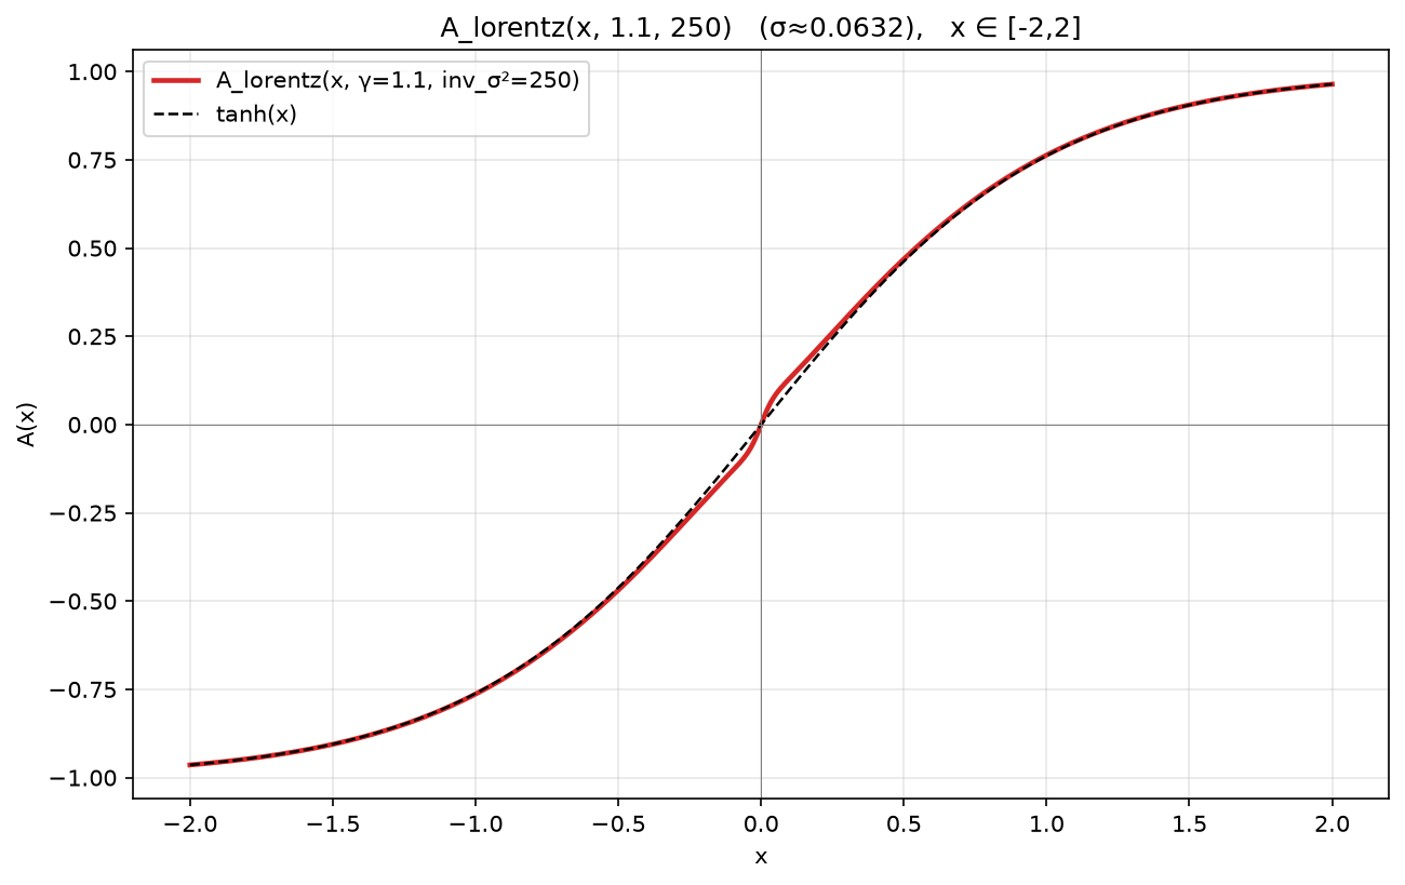
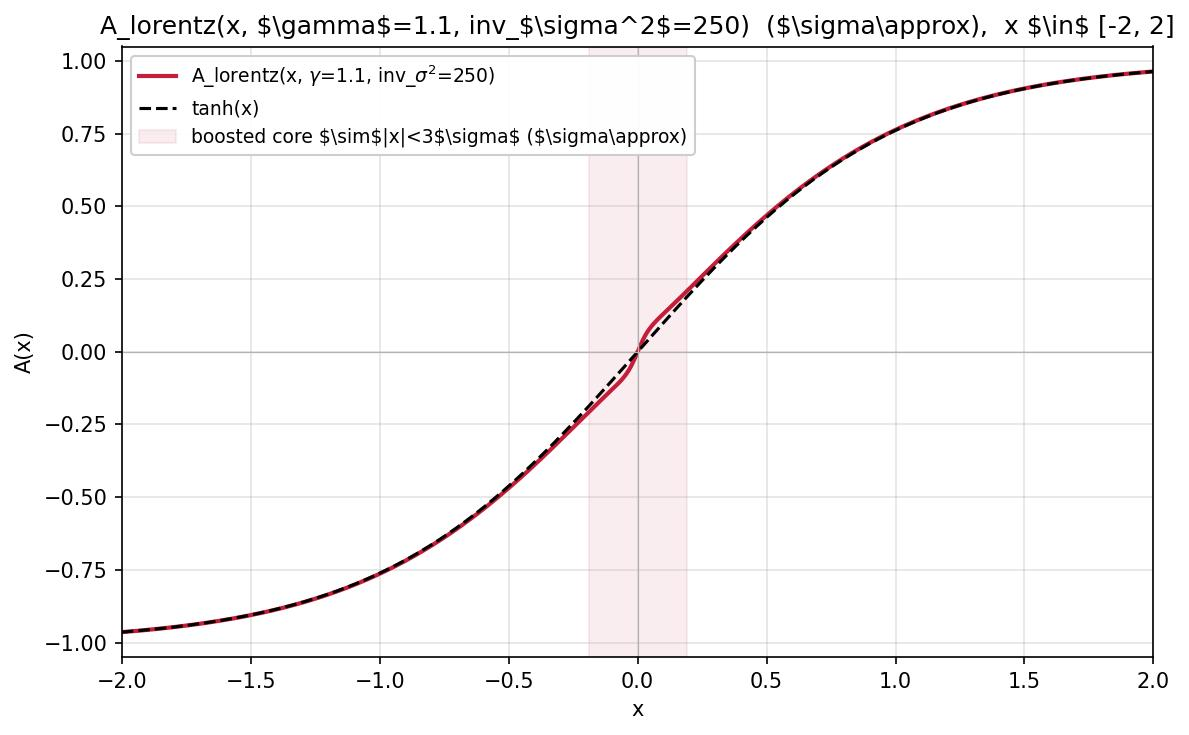
fix(fsf): stage phi like external feedback D=1
Fill vtx_fsf_ with stage_scale*(V·x); V used only for phi. B_fsf gather unchanged. Docs match.

diff --git a/Reservoir.h b/Reservoir.h
@@ -32,12 +32,12 @@ struct ReservoirConfig
     // When false: zero FSF allocation. When true: B_fsf + staging buffer + V
     // (length N). From standalone fsf_seed (not mixed from `seed`): first N → V as
     // U(-1,1) with no scale baked in; then N·dim → B_fsf × fsf_scaling/√dim.
-    // Each Step: φ = V·x, pad[v] = fsf_stage_scaling·φ·V[v] (w ≡ V forever),
-    // gather via B_fsf. See docs/full_state_linear_feedback.md.
+    // Each Step: φ = fsf_stage_scaling·(V·x), fill vtx_fsf_ with φ (ext-fb D=1 style),
+    // gather via B_fsf. V is only used to form φ. See docs/full_state_linear_feedback.md.
     bool full_state_feedback = false;
     uint64_t fsf_seed = 1;
     float fsf_scaling = 0.5f;        // B_fsf: U(-1,1) × scaling/√dim (construction)
-    float fsf_stage_scaling = 1.0f;  // Step: pad[v] = scale · φ · V[v]
+    float fsf_stage_scaling = 1.0f;  // Step: scale on channel φ before fill
 
     float bias_scaling = 0.02f; // per-neuron additive bias drawn U(-1,1)*bias_scaling, added to the activation (after the tanh); OFF by default (0 disables)
 
@@ -98,9 +98,10 @@ struct ReservoirConfig
 ///     per-step drive, twin of the input path (@ref InjectExternalFeedback).
 ///     Outside the spectral-radius rescale.
 ///   - **Full-state linear feedback** (@c full_state_feedback): internal drive
-///     each step: φ = V·x, pad[v] = @c fsf_stage_scaling·φ·V[v] (w ≡ V forever),
-///     gather through B_fsf. V is U(-1,1) from @c fsf_seed; B_fsf from same seed
-///     with @c fsf_scaling. Outside SR. Zero alloc when off.
+///     each step: φ = @c fsf_stage_scaling·(V·x), fill @c vtx_fsf_ with φ (same
+///     mechanism as one external-feedback channel), gather through B_fsf. V is
+///     U(-1,1) from @c fsf_seed (φ only); B_fsf from same seed with @c fsf_scaling.
+///     Outside SR. Zero alloc when off.
 ///   - **Per-neuron bias** (@c bias_scaling > 0): fixed additive term per neuron.
 ///   - **Lorentzian activation** (@c lorentz_gamma != 0); gamma = 0 is plain tanh.
 ///

diff --git a/Reservoir.cpp b/Reservoir.cpp
@@ -255,19 +255,16 @@ void Reservoir::Initialize()
 
 void Reservoir::Step()
 {
-    // Full-state feedback: V is U(-1,1) from construction (no scale baked in).
-    // φ = V·x; pad[v] = stage_scale · φ · V[v] (w ≡ V forever).
-    // UpdateState gathers neighbors of pad through B_fsf (× fsf_scaling at construct).
+    // FSF: φ = V·x (only use of V). Stage like external feedback D=1 — write the
+    // same scalar onto every entry of vtx_fsf_; B_fsf multiplies in UpdateState.
     if (fsf_enabled_)
     {
         const float* x = slice_ptrs_[0];
         double acc = 0.0;
         for (size_t i = 0; i < n_; ++i)
             acc += static_cast<double>(fsf_v_[i]) * static_cast<double>(x[i]);
-        const float phi = static_cast<float>(acc);
-        const float stage = fsf_stage_scaling_ * phi;
-        for (size_t v = 0; v < n_; ++v)
-            vtx_fsf_[v] = stage * fsf_v_[v];
+        const float phi = fsf_stage_scaling_ * static_cast<float>(acc);
+        std::fill(vtx_fsf_.get(), vtx_fsf_.get() + n_, phi);
     }
 
     const float* p_vtx_prev = slice_ptrs_[0];

diff --git a/examples/FsfAbSwitch.h b/examples/FsfAbSwitch.h
@@ -4,7 +4,7 @@
 /// @brief Shared A/B controls for full-state linear feedback (FSF) in examples.
 ///
 /// When enabled: V ~ U(-1,1) from fsf_seed; B_fsf from same seed with fsf_scaling.
-/// pad[v] = fsf_stage_scaling · (V·x) · V[v] in Step. No Set/Get of V.
+/// Step: φ = fsf_stage_scaling·(V·x), fill vtx_fsf_ with φ (ext-fb D=1). No Set/Get.
 ///
 /// See docs/full_state_linear_feedback.md.
 
@@ -16,12 +16,12 @@
 
 namespace fsf_ab
 {
-    inline constexpr bool kEnable = false;
-    inline constexpr std::uint64_t kSeed = 1;
+    inline constexpr bool kEnable = true;
+    inline constexpr std::uint64_t kSeed = 13459873;
     /// B_fsf construction: U(-1,1) × kScaling/√dim.
     inline constexpr float kScaling = 0.5f;
     /// Step: pad[v] = kStageScaling · (V·x) · V[v].
-    inline constexpr float kStageScaling = 1.0f;
+    inline constexpr float kStageScaling = 0.1f;
 
     inline void ApplyTo(ReservoirConfig& r) noexcept
     {

diff --git a/examples/Lorenz/Lorenz.h b/examples/Lorenz/Lorenz.h
@@ -36,7 +36,7 @@ namespace config
     constexpr bool FULL_STATE_FEEDBACK = false;
     constexpr uint64_t FSF_SEED = 1;
     constexpr float FSF_SCALING = 0.5f;        // B_fsf: U(-1,1)×scale/√dim
-    constexpr float FSF_STAGE_SCALING = 1.0f;  // pad[v] = scale · (V·x) · V[v]
+    constexpr float FSF_STAGE_SCALING = 1.0f;  // φ = scale · (V·x), fill vtx_fsf_
 
     // ---- Readout (HCNN), trained ONLINE (single-sample, multi-epoch) ----
     constexpr float LEARNING_RATE = 0.00004f; // peak per-step online learning rate (Adam); annealed by LrProfile

diff --git a/docs/full_state_linear_feedback.md b/docs/full_state_linear_feedback.md
@@ -1,88 +1,56 @@
 # Full-state linear feedback — theory and landed API
 
 > Status: **landed (mechanism)**.  
-> Ehlers, Nurdin & Soh (arXiv:2312.15141) motivate a full-state gain **V**.  
-> HypercubeESN applies it as a **dedicated internal drive port** (`B_fsf`), not by
-> hijacking input or external feedback. Config and API live on
-> `ReservoirConfig` / `ESN`; dynamics notes in [Reservoir.md](Reservoir.md).
->
-> **Binding:** **w ≡ V** forever (`pad[v] ∝ φ · V[v]`). No separate staging vector.
-> **V** is U(−1,1) from `fsf_seed` (no scale baked in). **No** Set/Get of V.
+> Internal drive port: form a single channel value **φ = V · x**, then inject it
+> **exactly like external feedback with one channel** (fill `vtx_fsf_` with φ,
+> XOR-gather × **B_fsf**). Config on `ReservoirConfig` / `ESN`. Details in
+> [Reservoir.md](Reservoir.md).
 
 ## Design (canonical)
 
 ```
-Construction (fsf_seed, standalone RNG — not reservoir.seed):
-  V[i]     ~ U(-1, 1)                         // first N draws; full range stored
-  B_fsf    ~ U(-1, 1) * fsf_scaling / √dim    // next N·dim draws
+Construction (fsf_seed, standalone — not reservoir.seed):
+  V[i]   ~ U(-1, 1)                         // first N draws; φ only
+  B_fsf  ~ U(-1, 1) * fsf_scaling / √dim    // next N·dim draws
 
 Each Step:
-  φ        = V · x
-  pad[v]   = fsf_stage_scaling * φ * V[v]     // w ≡ V
-  UpdateState: gather neighbors of pad through B_fsf
+  φ = fsf_stage_scaling * (V · x)           // V used only here
+  vtx_fsf_[0 .. N) = φ                      // same scalar on every vertex (ext-fb D=1)
+  UpdateState: s += vtx_fsf_[neighbor] * B_fsf[v,i]
 ```
 
-### Why both `fsf_scaling` and `fsf_stage_scaling`?
+| Piece | Role |
+|--------|------|
+| **V** | Only builds φ |
+| **φ** | Single-channel drive this step |
+| **`vtx_fsf_`** | Staged field (all entries φ) |
+| **B_fsf** | Inject weights (same gather form as external feedback) |
+| **`fsf_stage_scaling`** | Scale on the channel φ |
+| **`fsf_scaling`** | Scale baked into B_fsf at construction |
 
-They scale **different objects** on the path from state to neuron sum:
+No Set/Get of V. `Create(GetConfig())` rebuilds V and B_fsf from seed + scales.
 
-| Scale | What it multiplies | Analogy |
-|-------|--------------------|---------|
-| **`fsf_stage_scaling`** | How strong the **pad field** is: pad ∝ stage · (V·x) · V | Volume of the FSF *message* painted on the cube |
-| **`fsf_scaling`** | How strong **B_fsf** is (inject weights, like `input_scaling`) | How hard that message is *wired into* each neuron |
-
-```text
-  x ──(V)──► φ ──(V, stage_scale)──► pad ──(B_fsf, fsf_scaling)──► neuron sum
-```
-
-- Change **stage** → same inject wiring, louder/softer pads.  
-- Change **fsf_scaling** → same pads, stronger/weaker inject weights (and relative
-  row geometry stays whatever B_fsf drew; overall magnitude moves with the scale).
-
-They are **not** redundant the way score×stage was (that pair only appeared as a
-product into pad). Stage acts **before** the gather; B_fsf scale is **in** the
-gather weights — same split as task input: raw drive vs `input_scaling` on weights.
-
-`Create(GetConfig())` rebuilds the same V and B_fsf (deterministic draw order).
-
-## Landed realization
-
-| Item | Behavior |
-|------|----------|
-| Enable | Construction-only: `full_state_feedback` |
-| Off | Zero FSF allocation |
-| V | Length N; **U(−1,1)** from `fsf_seed` (first N draws) |
-| B_fsf | N×dim; U(−1,1)×`fsf_scaling`/√dim (same seed, next draws) |
-| φ / pads | φ = V·x; pad[v] = `fsf_stage_scaling` · φ · V[v] |
-| Gather | XOR neighbors of pad × B_fsf |
-| API | No Set/Get V |
+## Code sketch
 
 ```cpp
 ESNConfig cfg;
 cfg.reservoir.full_state_feedback = true;
 cfg.reservoir.fsf_seed            = 1;
-cfg.reservoir.fsf_scaling         = 0.5f;  // B_fsf
-cfg.reservoir.fsf_stage_scaling   = 1.0f;  // pads
+cfg.reservoir.fsf_scaling         = 0.5f;
+cfg.reservoir.fsf_stage_scaling   = 1.0f;
 ESN esn(cfg);
+// FSF applies inside ReservoirStep / Warmup / Run automatically
 ```
-
-## What is not in the design
-
-- Separate **w** (forever **w ≡ V**)
-- Runtime Set/Get of V
-- Separate score scale (redundant with stage under w ≡ V)
-- Multi-channel FSF
-- Library training of V
 
 ## Drive-port map
 
 ```
-  input              — always
-  external feedback  — optional caller values
-  FSF                — internal: φ = V·x, pad ∝ φ⊙V, gather B_fsf
+  input              — InjectInput → vtx_input_ → gather B_in
+  external feedback  — InjectExternalFeedback → vtx_ext → gather B_ext
+  FSF                — φ = V·x → fill vtx_fsf_ with φ → gather B_fsf
 ```
 
-![Drive ports: input, external feedback, and FSF into one reservoir step](drive_ports_flow.jpg)
+![FSF one timestep](drive_ports_flow.jpg)
 
 ## Reference
 
@@ -93,21 +61,20 @@ Networks Through Feedback*. arXiv:2312.15141.
 
 ## Appendix: FSF for Dummies
 
-**V** is a random ±1 pattern from seed (score + paint). **B_fsf** is the inject
-weight block. **stage_scale** loudness of the pad field; **fsf_scaling** loudness
-of the inject weights.
+**Make one number, inject like external feedback.**
 
-### Each step
+1. **φ = V · x** — only use of V (full-state score).  
+2. **Write φ into every entry of `vtx_fsf_`** — same as one external-feedback channel.  
+3. **Gather** in `UpdateState`:
 
-```text
-  1. Full state x
-  2. φ  =  V · x
-  3. pad[v]  =  stage_scale · φ · V[v]
-  4. Gather neighbors’ pads × B_fsf into each neuron
-  5. + recurrent + input (+ external feedback) → new state
+```cpp
+s += vtx_fsf_[v ^ NearestMask(i)] * fsw[i];  // fsw = B_fsf row for vertex v
 ```
+
+Staging does **not** multiply by weights; the **B_fsf** multiply is in the gather
+(same as input / external feedback).
 
 ### One-line summary
 
-**V** from seed in [−1,1]; **stage_scale** sizes pads; **fsf_scaling** sizes B_fsf.
-No second N-vector. No Set/Get.
+**V** → φ; **φ** fills **`vtx_fsf_`**; **B_fsf** injects. Same mechanism as
+single-channel external feedback; only the source of the scalar differs.

diff --git a/docs/Reservoir.md b/docs/Reservoir.md
@@ -60,7 +60,7 @@ Everything that follows serves those two.
 | `full_state_feedback` | false | construction-only FSF enable; false ⇒ zero FSF alloc |
 | `fsf_seed` | 1 | draws V (U(−1,1)) then B_fsf (standalone; not from `seed`) |
 | `fsf_scaling` | 0.5 | B_fsf: U(−1,1)×scale/√dim (only if FSF on) |
-| `fsf_stage_scaling` | 1.0 | Step: pad[v] = scale · (V·x) · V[v] |
+| `fsf_stage_scaling` | 1.0 | Step: scale on φ before fill of vtx_fsf_ |
 | `bias_scaling` | 0.02 | U(−1,1)×scale per neuron; **0 disables** bias |
 | `lorentz_gamma` | 0.0 | **0** ⇒ plain `tanh`; see activation below |
 | `lorentz_inv_sigma2` | 250.0 | 1/σ² for the Lorentzian gain envelope |
@@ -197,8 +197,8 @@ Per-step quantities:
   newest (`Outputs()`, recurrent age 0). Slice `j` is age `j`.
 - `vtx_input_[v]` — staged input field; cleared after every `Step()`.
 - `vtx_ext_feedback_[v]` — staged external feedback if D > 0; cleared every `Step()`.
-- `vtx_fsf_[v]` — staged FSF field if enabled (φ = V·x filled inside `Step`); cleared every `Step()`.
-- `fsf_v_` — full-state vector **V** (length N) when FSF enabled; parameter, not cleared by `Clear`.
+- `vtx_fsf_[v]` — staged FSF channel (all entries φ) if enabled; filled in `Step`, cleared after.
+- `fsf_v_` — vector **V** (length N) used only for φ = V·x; not cleared by `Clear`.
 - `vtx_bias_[v]` — fixed U(−1,1)×`bias_scaling` (or zero if scale is 0); **not**
   cleared by `Clear` / not in snapshots.
 
@@ -229,7 +229,7 @@ for i = 0 .. DIM-1:
 for i = 0 .. DIM-1:
     s += ext_fb[v XOR (1<<i)] * W_ext[v][i]
 
-# (b2) FSF — pad[v]=φ·V[v] staged at start of Step (omitted if FSF off)
+# (b2) FSF — vtx_fsf_ filled with φ at start of Step (omitted if FSF off)
 for i = 0 .. DIM-1:
     s += fsf[v XOR (1<<i)] * W_fsf[v][i]
 
@@ -304,14 +304,13 @@ Typical closed-loop use: stage last step’s readout-derived signal (y(t−1)), 
 
 When `full_state_feedback = true`, a third drive path runs **inside** each `Step`:
 
-1. V is U(−1,1)^N from `fsf_seed` at construction (no scale baked into V)
-2. φ = V · x
-3. Stage `pad[v] = fsf_stage_scaling · φ · V[v]` (**w ≡ V forever**)
-4. XOR-gather pad through **B_fsf** (`fsf_scaling`/√dim at construction)
+1. V is U(−1,1)^N from `fsf_seed` at construction (φ only; no scale baked into V)
+2. φ = `fsf_stage_scaling` · (V · x)
+3. Fill every entry of `vtx_fsf_` with φ (same as one external-feedback channel)
+4. XOR-gather `vtx_fsf_` through **B_fsf** (`fsf_scaling`/√dim at construction)
 
-Zero allocation when disabled. No runtime Set/Get of V.
-`fsf_stage_scaling` sizes the pad field; `fsf_scaling` sizes inject weights
-(see [full_state_linear_feedback.md](full_state_linear_feedback.md)).
+Zero allocation when disabled. No runtime Set/Get of V. See
+[full_state_linear_feedback.md](full_state_linear_feedback.md).
 
 ## Per-neuron bias (optional)
 

diff --git a/docs/CPP_SDK.md b/docs/CPP_SDK.md
@@ -261,7 +261,7 @@ cfg.history_depth   = 16;     // per-task recurrent delay-line depth
 | `full_state_feedback` | `bool` | `false` | Construction-only enable for internal full-state feedback. **false** ⇒ zero FSF allocation. See [full_state_linear_feedback.md](full_state_linear_feedback.md). |
 | `fsf_seed` | `uint64_t` | `1` | Draws V as U(−1,1) (first N) then B_fsf (next N·dim). Standalone — not derived from `seed`. |
 | `fsf_scaling` | `float` | `0.5` | B_fsf: U(−1,1) × `scaling / √DIM` at construction (inject weight scale). |
-| `fsf_stage_scaling` | `float` | `1.0` | Step: pad[v] = scale · (V · x) · V[v] (pad-field strength). |
+| `fsf_stage_scaling` | `float` | `1.0` | Step: φ = scale · (V · x), then fill vtx_fsf_ with φ. |
 
 ---
 

diff --git a/examples/README.md b/examples/README.md
@@ -15,7 +15,7 @@ quick A/B testing against the open-loop baseline.
 
 1. **Off:** `kEnable = false`.
 2. **On:** `kEnable = true` — V = U(−1,1) from `kSeed`; `kScaling` = B_fsf;
-   `kStageScaling` = pad strength in `Step`. No Set/Get of V.
+   `kStageScaling` scales φ before fill. No Set/Get of V.
 
 Logs print a `FSF A/B:` line. Theory/API:
 [docs/full_state_linear_feedback.md](../docs/full_state_linear_feedback.md).
